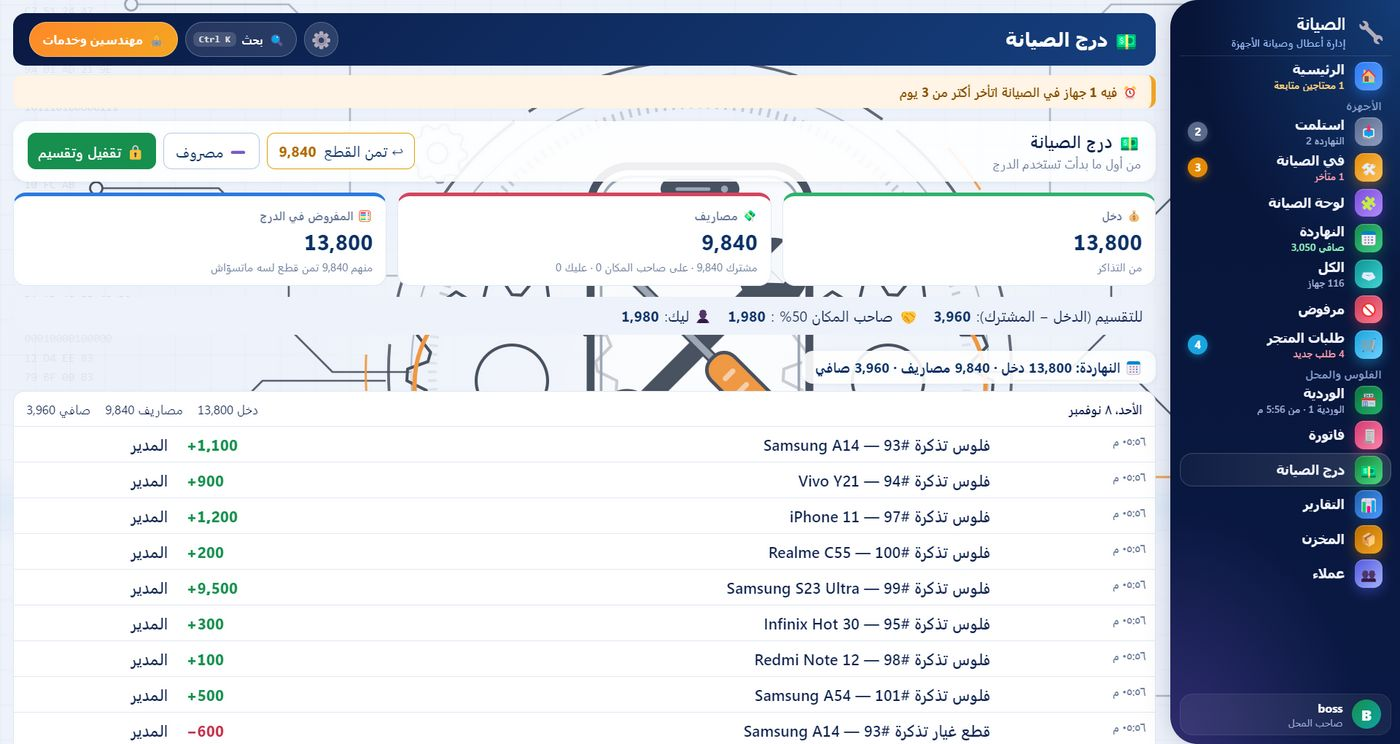
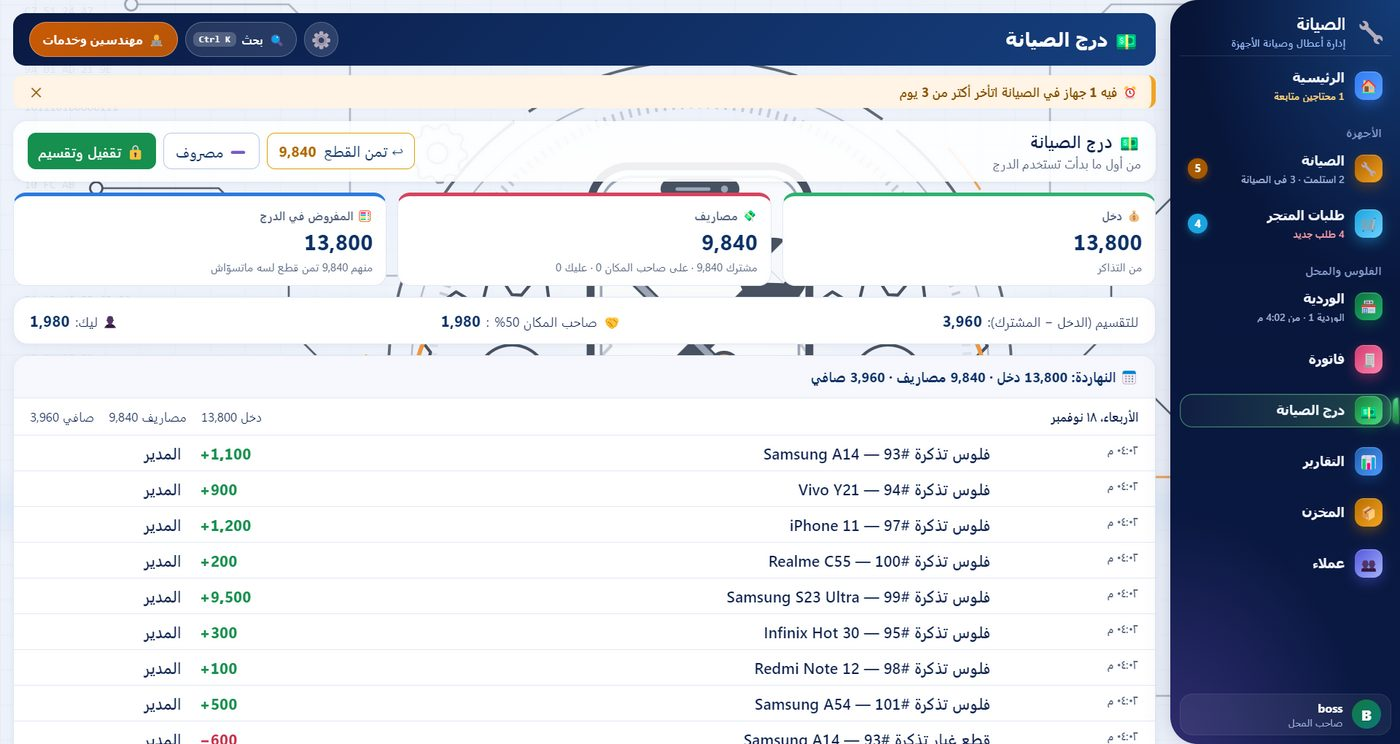
Site: employees & branches section, iPhone links, store reviews/account/branches, all screenshots retaken

diff --git a/index.html b/index.html
@@ -79,7 +79,7 @@
   .dlc i { font-style: normal; font-size: 40px; } .dlc b { font-size: 17px; } .dlc small { color: var(--mut, #5b6a88); font-size: 13px; }
   .dlc span { margin-top: 8px; padding: 9px 18px; border-radius: 12px; background: linear-gradient(135deg, #2b7be0, #1f5fae); color: #fff; font-weight: 800; }
   .cap2 { text-align: center; color: var(--mut, #5b6a88); font-size: 14px; margin-top: 10px; }
-  @media (max-width: 760px) { .dls { grid-template-columns: 1fr; } .navl { gap: 10px; } }
+  @media (max-width: 760px) { .dls { grid-template-columns: 1fr; } .navl { gap: 10px; } .navl .wide { display: none; } }
   .split { display: grid; grid-template-columns: 1fr 1.2fr; gap: 34px; align-items: center; }
   .phones { display: flex; gap: 14px; justify-content: center; }
   .phones img { width: 31%; border-radius: 22px; border: 6px solid #0a1a44; box-shadow: 0 18px 40px #0003; }
@@ -232,7 +232,7 @@
   <div class="wrap">
     <div class="nav">
       <div class="brand"><i>🔧</i>الصيانة</div>
-      <span class="navl"><a class="small" href="#store">🛒 المتجر</a><a class="small" href="#downloads">⬇ التحميلات</a><a class="small" href="#features">المميزات ↓</a></span>
+      <span class="navl"><a class="small" href="#store">🛒 المتجر</a><a class="small wide" href="#team">👷 الموظفين والفروع</a><a class="small" href="#downloads">⬇ التحميلات</a><a class="small" href="#features">المميزات ↓</a></span>
     </div>
     <div class="hero-in">
       <div>
@@ -242,32 +242,32 @@
           <a class="btn pri" href="https://github.com/khalid374374/repair-desk/releases/download/repair-desk/RepairDesk-Setup.exe">⬇ نزّل البرنامج</a>
           <a class="btn wa" href="https://wa.me/201032620498" target="_blank" rel="noopener">💬 كلّمنا واتساب</a>
         </div>
-        <small class="note up" style="--d:.36s">ويندوز 10 و 11 · عربي وإنجليزي · بيتحدّث لوحده</small>
+        <small class="note up" style="--d:.36s">ويندوز 10 و 11 · موبايل أندرويد وآيفون · عربي وإنجليزي · بيتحدّث لوحده</small>
       </div>
       <div class="shot-wrap"><div class="shot-float">
         <img class="shot-hero" src="img/home.jpg" alt="الصفحة الرئيسية في برنامج الصيانة" width="1400" height="744">
         <div class="sheen"></div>
         <div class="toast-fly t1" aria-hidden="true"><i>📲</i> تحويل 500 ج على فودافون كاش <b>✓ اتسجل</b></div>
         <div class="toast-fly t2" aria-hidden="true"><i>🔒</i> الوردية اتقفلت: <b>زيادة 120</b></div>
-        <div class="toast-fly t3" aria-hidden="true"><i>🛠</i> آيفون 13 خلص: <b>صافي 650</b></div>
+        <div class="toast-fly t3" aria-hidden="true"><i>👷</i> علي وصل المحل: <b>اتسجل حضوره 9:02</b></div>
       </div></div>
     </div>
   </div>
 </header>
 
 <div class="wrap"><div class="facts rv">
-  <div><b>52+</b><span>ميزة في برنامج واحد</span></div>
-  <div><b>2</b><span>تطبيق أندرويد + متجر لعملاك</span></div>
-  <div><b>0</b><span>سيرفر تركّبه في المحل</span></div>
+  <div><b>75+</b><span>ميزة في برنامج واحد</span></div>
+  <div><b>3</b><span>تطبيقات موبايل + متجر لعملاك</span></div>
+  <div><b>10</b><span>فروع تتابعهم من موبايل واحد</span></div>
   <div><b>100%</b><span>بالمصري وعربي/إنجليزي</span></div>
 </div></div>
 
 <section id="features">
   <div class="wrap">
     <h2 class="rv">كل حاجة في البرنامج</h2>
-    <p class="sub rv">52 ميزة، معمولين بإيد فني صيانة على حسابات محل حقيقي — بالمصري ومن غير تعقيد.</p>
-    <div class="fx-cats rv" id="fx-cats"><button type="button" data-cat="repair" class="on"><i>🛠</i>الصيانة <small>12</small></button><button type="button" data-cat="money" class=""><i>💵</i>الفلوس والوردية <small>10</small></button><button type="button" data-cat="stock" class=""><i>📦</i>المخزن والبيع <small>6</small></button><button type="button" data-cat="store" class=""><i>🛒</i>متجر أونلاين <small>6</small></button><button type="button" data-cat="mobile" class=""><i>📱</i>موبايلك <small>6</small></button><button type="button" data-cat="safe" class=""><i>🔐</i>الأمان والموظفين <small>6</small></button><button type="button" data-cat="look" class=""><i>✨</i>الشكل والسهولة <small>6</small></button></div>
-    <div class="fx-box rv"><div class="fx-pane on" data-pane="repair"><div class="fx-img"><img src="img/details.jpg" alt="الصيانة" loading="lazy" width="1400" height="744"></div><div class="fx-grid"><div class="fx"><span>📥</span><div><b>استلام كامل</b><p>الجهاز بالـ IMEI والقفل (رقم أو باسورد أو نمط)، استلمنا معاه إيه وحالته وصوره، والعربون والباقي والميعاد.</p></div></div><div class="fx"><span>🧩</span><div><b>أكتر من إصلاح</b><p>شاشة وبطارية وسوكت في تذكرة واحدة، كل بند بسعره وتمن قطعته، والتذكرة بتجمعهم لوحدها.</p></div></div><div class="fx"><span>🗂</span><div><b>لوحة الصيانة</b><p>أعمدة بالسحب (استلمت / في الصيانة / خلص / جاهز للتسليم)، وكلك يمين على الكارت فيه كل حاجة.</p></div></div><div class="fx"><span>📦</span><div><b>مستني قطعة</b><p>علّم الجهاز بالقطعة وميعادها، واسأل التجار من رقم المحل بدوسة، وقايمة مشتريات جاهزة.</p></div></div><div class="fx"><span>➕</span><div><b>حاجة زيادة</b><p>الفني يقترح إصلاح زيادة، والعميل يوافق على واتساب قبل ما السعر يتغيّر.</p></div></div><div class="fx"><span>💡</span><div><b>سعر مقترح</b><p>اختار جودة القطعة (اصلي، اوليد، GX...) والبرنامج يقولك اتصلّح قبل كده بكام.</p></div></div><div class="fx"><span>🛡</span><div><b>الضمان</b><p>الجهاز رجع؟ تذكرة ببلاش مربوطة بالقديمة بالسبب (القطعة / الفني / العميل) والتاجر.</p></div></div><div class="fx"><span>📲</span><div><b>العميل يتابع جهازه</b><p>QR على الإيصال: يشوف حالته من موبايله، ويوقّع على الإيصال بصباعه.</p></div></div><div class="fx"><span>💬</span><div><b>واتساب أوتوماتيك</b><p>رسالة لما يدخل الصيانة ولما يخلص، وتذكير للي ماستلمش جهازه.</p></div></div><div class="fx"><span>🧾</span><div><b>إيصال احترافي</b><p>باللوجو والعنوان والشروط وتوقيع العميل، وملصق صغير يتلزق على الجهاز.</p></div></div><div class="fx"><span>🔌</span><div><b>IMEI بالكابل</b><p>وصّل الموبايل واسحب الـ IMEI والمواصفات من غير ما تكتبها.</p></div></div><div class="fx"><span>🔗</span><div><b>جهاز الفني</b><p>كمبيوتر الصيانة يتربط بالكاشير على شبكة المحل ويشتغلوا على نفس البيانات.</p></div></div></div></div><div class="fx-pane" data-pane="money"><div class="fx-img"><img src="img/shift.jpg" alt="الفلوس والوردية" loading="lazy" width="1400" height="744"></div><div class="fx-grid"><div class="fx"><span>🏪</span><div><b>المفروض في الدرج</b><p>لحظة بلحظة: السحب والملاحظات والتحويلات والأجهزة والإكسسوار، والتقفيل بيقولك زيادة ولا عجز.</p></div></div><div class="fx"><span>🔁</span><div><b>المحافظ والخطوط</b><p>فودافون كاش وانستاباي بعمولة (نسبة أو شرايح)، والحد الشهري لكل خط.</p></div></div><div class="fx"><span>💳</span><div><b>الكارت وفوري</b><p>سحب من الكارت، كاش اوت، المندوب والرصيد اللي عليك، وفوري وأمان.</p></div></div><div class="fx"><span>👤</span><div><b>كارت لكل عميل</b><p>اللي عليه واللي ليه، الملاحظات والأمانة، بالشهر ومن الأول.</p></div></div><div class="fx"><span>🤝</span><div><b>تسليم الوردية</b><p>لو اتنين شغالين: كل واحد يسلّم ويستلم بالعد، والعجز معروف مين.</p></div></div><div class="fx"><span>📅</span><div><b>تقفيلة الشهر</b><p>المكسب الحقيقي ورأس المال: نقدي + أرصدة + اللي على الناس + المخزن.</p></div></div><div class="fx"><span>🧰</span><div><b>درج الصيانة والشريك</b><p>دخل الصيانة وقطعها ومصاريفها، والصافي بيتقسم مع الفني الشريك بالنسبة.</p></div></div><div class="fx"><span>🧾</span><div><b>دفع الفواتير</b><p>نت وكهربا ومية وشحن من مكنة فوري بالعمولة، وبتتحسب في الدرج صح.</p></div></div><div class="fx"><span>🗓</span><div><b>مدفوعات ثابتة</b><p>الجمعية والإيجار في ميعادها: "دفعت النهارده؟" وبتتسجل بدوسة.</p></div></div><div class="fx"><span>📊</span><div><b>التقارير</b><p>الصيانة لوحدها والإكسسوار لوحده، الفنيين وأكتر الأجهزة ومتوسط وقت التصليح، وطباعة PDF.</p></div></div></div></div><div class="fx-pane" data-pane="stock"><div class="fx-img"><img src="img/stock.jpg" alt="المخزن والبيع" loading="lazy" width="1400" height="744"></div><div class="fx-grid"><div class="fx"><span>📦</span><div><b>المخزن</b><p>قطع الغيار والإكسسوار بأنواعهم، والتنبيه قبل ما الصنف يخلص.</p></div></div><div class="fx"><span>🏷</span><div><b>الباركود</b><p>استيكر لكل صنف، والقارئ بيضيفه في الفاتورة على طول.</p></div></div><div class="fx"><span>🧾</span><div><b>الفاتورة</b><p>خصم ومرتجع بسبب و"على الحساب"، على رول 80 أو 58 مم أو A4.</p></div></div><div class="fx"><span>📱</span><div><b>بيع وشراء أجهزة</b><p>الجهاز بالـ IMEI والمواصفات والبطارية والصور، وبيعه مع الإكسسوار في إيصال واحد.</p></div></div><div class="fx"><span>📋</span><div><b>الجرد</b><p>كامل أو سريع لـ 10 أصناف، من الكمبيوتر أو الموبايل بالكاميرا، والناقص بقيمته.</p></div></div><div class="fx"><span>📈</span><div><b>Excel</b><p>تصدير شكل داشبورد: أرقام وجداول وفلاتر وصفحات حسب الفني والماركة.</p></div></div></div></div><div class="fx-pane" data-pane="store"><div class="phones fx-ph"><img src="img/s-home.jpg" alt="" loading="lazy"><img src="img/s-checkout.jpg" alt="" loading="lazy"><img src="img/s-track.jpg" alt="" loading="lazy"></div><div class="fx-grid"><div class="fx"><span>🔗</span><div><b>لينك وQR لمحلك</b><p>العميل يفتحه من موبايله ويطلب من غير حساب، ويتثبّت كتطبيق باسم محلك ولوجوه.</p></div></div><div class="fx"><span>🏷</span><div><b>منتجات وعروض</b><p>من المخزن نفسه: صور وموديلات وضمان وتبديل، وخصم بعدّاد وكوبونات و"ضيف معاه".</p></div></div><div class="fx"><span>📍</span><div><b>التوصيل بالمناطق</b><p>العميل يحدد مكانه على الخريطة، والتوصيل ببلاش لحد كذا كيلو وبعدها رسوم.</p></div></div><div class="fx"><span>⚡</span><div><b>الدفع</b><p>كاش عند الاستلام أو انستا، والفيزا جاهزة أول ما يبقى عندك حساب Paymob.</p></div></div><div class="fx"><span>🛵</span><div><b>الطلبات والمناديب</b><p>جديد ← بيتجهز ← مع المندوب ← اتحصّل، والفاتورة والفلوس اللي مع المندوب في الوردية لوحدها.</p></div></div><div class="fx"><span>🤔</span><div><b>الناس عايزة إيه</b><p>"مش لاقي اللي عايزه؟" والطلبات بتتجمع علشان تعرف تجيب إيه.</p></div></div></div></div><div class="fx-pane" data-pane="mobile"><div class="phones fx-ph"><img src="img/m-home.jpg" alt="" loading="lazy"><img src="img/m-invoice.jpg" alt="" loading="lazy"><img src="img/m-watch.jpg" alt="" loading="lazy"></div><div class="fx-grid"><div class="fx"><span>📊</span><div><b>المحل على موبايلك</b><p>الدرج ودخل الوردية والصيانة والتقارير لحظة بلحظة.</p></div></div><div class="fx"><span>🧾</span><div><b>فاتورة ومخزن وجرد</b><p>زي الكمبيوتر، والكاميرا قارئ باركود.</p></div></div><div class="fx"><span>🛒</span><div><b>طلبات المتجر</b><p>أكّد وسلّم للمندوب وسجّل اللي اتحصّل من مكانك.</p></div></div><div class="fx"><span>🙋</span><div><b>موافقات الموظفين</b><p>سحب أو مرتجع أو مسح: وافق أو ارفض من الإشعار.</p></div></div><div class="fx"><span>📲</span><div><b>مراقب المحافظ</b><p>تطبيق على تليفون المحافظ بيقرا رسايل الفلوس وينبّهك لو تحويل ماتسجلش أو الرصيد مش مظبوط.</p></div></div><div class="fx"><span>🔒</span><div><b>بصمة وإشعارات</b><p>قفل بالبصمة، وإشعار لكل حاجة مهمة وتختار تقفل اللي مش عايزه.</p></div></div></div></div><div class="fx-pane" data-pane="safe"><div class="fx-grid"><div class="fx"><span>👷</span><div><b>موظفين بالـ PIN</b><p>كل واحد بحسابه وصلاحياته: مين يشوف الأرباح ومين يمسح ومين يسحب.</p></div></div><div class="fx"><span>🧾</span><div><b>سجل محمي</b><p>كل عملية باسم اللي عملها، ومحمي من التلاعب، وسلة للمحذوفات.</p></div></div><div class="fx"><span>✋</span><div><b>طلبات موافقة</b><p>السحب الكبير والمرتجع والمسح بيستنوا موافقتك (اختياري).</p></div></div><div class="fx"><span>💾</span><div><b>نسخ احتياطي</b><p>نسخة على الجهاز لوحدها وعلى Google Drive، واسترجاع بدوسة.</p></div></div><div class="fx"><span>🩺</span><div><b>فحص البيانات</b><p>البرنامج بيتأكد كل مرة إن مفيش ملف باظ أو وردية ناقصة أو ساعة الكمبيوتر غلط.</p></div></div><div class="fx"><span>🔄</span><div><b>بيتحدّث لوحده</b><p>كل تحديث بيوصلك، و"إيه الجديد" بيقولك اتغيّر إيه.</p></div></div></div></div><div class="fx-pane" data-pane="look"><div class="fx-img"><img src="img/glass-dark.jpg" alt="الشكل والسهولة" loading="lazy" width="1400" height="744"></div><div class="fx-grid"><div class="fx"><span>🎨</span><div><b>شكلك انت</b><p>7 ألوان، فاتح وغامق وأسود، وLiquid Glass، وخلفية من عندك.</p></div></div><div class="fx"><span>⌨</span><div><b>Ctrl+K</b><p>دوّر على أي جهاز بالإيصال أو التليفون أو الـ IMEI، أو اكتب أمر زي "سحب".</p></div></div><div class="fx"><span>🧭</span><div><b>جولة ووضع تجربة</b><p>جولة بفصول بتشرح كل حاجة، ومحل وهمي تجرّب فيه من غير ما تلمس بياناتك.</p></div></div><div class="fx"><span>📋</span><div><b>النهارده</b><p>أول الرئيسية: المتأخر والقطع اللي ميعادها جه واللي جاهز ومحدش استلمه، وجنب كل واحد زرار.</p></div></div><div class="fx"><span>🌍</span><div><b>عربي وإنجليزي</b><p>بالمصري، والإنجليزي بدوسة.</p></div></div><div class="fx"><span>↩</span><div><b>رجوع</b><p>لو حد داس على حاجة بالغلط في طلبات المتجر، "رجوع" بيرجّعها زي ما كانت.</p></div></div></div></div></div>
+    <p class="sub rv">75+ ميزة، معمولين بإيد فني صيانة على حسابات محل حقيقي — بالمصري ومن غير تعقيد.</p>
+    <div class="fx-cats rv" id="fx-cats"><button type="button" data-cat="repair" class="on"><i>🛠</i>الصيانة <small>12</small></button><button type="button" data-cat="money" class=""><i>💵</i>الفلوس والوردية <small>10</small></button><button type="button" data-cat="stock" class=""><i>📦</i>المخزن والبيع <small>6</small></button><button type="button" data-cat="store" class=""><i>🛒</i>متجر أونلاين <small>11</small></button><button type="button" data-cat="team" class=""><i>👷</i>الموظفين والفروع <small>8</small></button><button type="button" data-cat="mobile" class=""><i>📱</i>موبايلك <small>9</small></button><button type="button" data-cat="safe" class=""><i>🔐</i>الأمان والموظفين <small>6</small></button><button type="button" data-cat="look" class=""><i>✨</i>الشكل والسهولة <small>7</small></button></div>
+    <div class="fx-box rv"><div class="fx-pane on" data-pane="repair"><div class="fx-img"><img src="img/details.jpg" alt="الصيانة" loading="lazy" width="1400" height="744"></div><div class="fx-grid"><div class="fx"><span>📥</span><div><b>استلام كامل</b><p>الجهاز بالـ IMEI والقفل (رقم أو باسورد أو نمط)، استلمنا معاه إيه وحالته وصوره، والعربون والباقي والميعاد.</p></div></div><div class="fx"><span>🧩</span><div><b>أكتر من إصلاح</b><p>شاشة وبطارية وسوكت في تذكرة واحدة، كل بند بسعره وتمن قطعته، والتذكرة بتجمعهم لوحدها.</p></div></div><div class="fx"><span>🗂</span><div><b>لوحة الصيانة</b><p>أعمدة بالسحب (استلمت / في الصيانة / خلص / جاهز للتسليم)، وكلك يمين على الكارت فيه كل حاجة.</p></div></div><div class="fx"><span>📦</span><div><b>مستني قطعة</b><p>علّم الجهاز بالقطعة وميعادها، واسأل التجار من رقم المحل بدوسة، وقايمة مشتريات جاهزة.</p></div></div><div class="fx"><span>➕</span><div><b>حاجة زيادة</b><p>الفني يقترح إصلاح زيادة، والعميل يوافق على واتساب قبل ما السعر يتغيّر.</p></div></div><div class="fx"><span>💡</span><div><b>سعر مقترح</b><p>اختار جودة القطعة (اصلي، اوليد، GX...) والبرنامج يقولك اتصلّح قبل كده بكام.</p></div></div><div class="fx"><span>🛡</span><div><b>الضمان</b><p>الجهاز رجع؟ تذكرة ببلاش مربوطة بالقديمة بالسبب (القطعة / الفني / العميل) والتاجر.</p></div></div><div class="fx"><span>📲</span><div><b>العميل يتابع جهازه</b><p>QR على الإيصال: يشوف حالته من موبايله، ويوقّع على الإيصال بصباعه.</p></div></div><div class="fx"><span>💬</span><div><b>واتساب أوتوماتيك</b><p>رسالة لما يدخل الصيانة ولما يخلص، وتذكير للي ماستلمش جهازه.</p></div></div><div class="fx"><span>🧾</span><div><b>إيصال احترافي</b><p>باللوجو والعنوان والشروط وتوقيع العميل، وملصق صغير يتلزق على الجهاز.</p></div></div><div class="fx"><span>🔌</span><div><b>IMEI بالكابل</b><p>وصّل الموبايل واسحب الـ IMEI والمواصفات من غير ما تكتبها.</p></div></div><div class="fx"><span>🔗</span><div><b>جهاز الفني</b><p>كمبيوتر الصيانة يتربط بالكاشير على شبكة المحل ويشتغلوا على نفس البيانات.</p></div></div></div></div><div class="fx-pane" data-pane="money"><div class="fx-img"><img src="img/shift.jpg" alt="الفلوس والوردية" loading="lazy" width="1400" height="744"></div><div class="fx-grid"><div class="fx"><span>🏪</span><div><b>المفروض في الدرج</b><p>لحظة بلحظة: السحب والملاحظات والتحويلات والأجهزة والإكسسوار، والتقفيل بيقولك زيادة ولا عجز.</p></div></div><div class="fx"><span>🔁</span><div><b>المحافظ والخطوط</b><p>فودافون كاش وانستاباي بعمولة (نسبة أو شرايح)، والحد الشهري لكل خط.</p></div></div><div class="fx"><span>💳</span><div><b>الكارت وفوري</b><p>سحب من الكارت، كاش اوت، المندوب والرصيد اللي عليك، وفوري وأمان.</p></div></div><div class="fx"><span>👤</span><div><b>كارت لكل عميل</b><p>اللي عليه واللي ليه، الملاحظات والأمانة، بالشهر ومن الأول.</p></div></div><div class="fx"><span>🤝</span><div><b>تسليم الوردية</b><p>لو اتنين شغالين: كل واحد يسلّم ويستلم بالعد، والعجز معروف مين.</p></div></div><div class="fx"><span>📅</span><div><b>تقفيلة الشهر</b><p>المكسب الحقيقي ورأس المال: نقدي + أرصدة + اللي على الناس + المخزن.</p></div></div><div class="fx"><span>🧰</span><div><b>درج الصيانة والشريك</b><p>دخل الصيانة وقطعها ومصاريفها، والصافي بيتقسم مع الفني الشريك بالنسبة.</p></div></div><div class="fx"><span>🧾</span><div><b>دفع الفواتير</b><p>نت وكهربا ومية وشحن من مكنة فوري بالعمولة، وبتتحسب في الدرج صح.</p></div></div><div class="fx"><span>🗓</span><div><b>مدفوعات ثابتة</b><p>الجمعية والإيجار في ميعادها: "دفعت النهارده؟" وبتتسجل بدوسة.</p></div></div><div class="fx"><span>📊</span><div><b>التقارير</b><p>الصيانة لوحدها والإكسسوار لوحده، الفنيين وأكتر الأجهزة ومتوسط وقت التصليح، وطباعة PDF.</p></div></div></div></div><div class="fx-pane" data-pane="stock"><div class="fx-img"><img src="img/stock.jpg" alt="المخزن والبيع" loading="lazy" width="1400" height="744"></div><div class="fx-grid"><div class="fx"><span>📦</span><div><b>المخزن</b><p>قطع الغيار والإكسسوار بأنواعهم، والتنبيه قبل ما الصنف يخلص.</p></div></div><div class="fx"><span>🏷</span><div><b>الباركود</b><p>استيكر لكل صنف، والقارئ بيضيفه في الفاتورة على طول.</p></div></div><div class="fx"><span>🧾</span><div><b>الفاتورة</b><p>خصم ومرتجع بسبب و"على الحساب"، على رول 80 أو 58 مم أو A4.</p></div></div><div class="fx"><span>📱</span><div><b>بيع وشراء أجهزة</b><p>الجهاز بالـ IMEI والمواصفات والبطارية والصور، وبيعه مع الإكسسوار في إيصال واحد.</p></div></div><div class="fx"><span>📋</span><div><b>الجرد</b><p>كامل أو سريع لـ 10 أصناف، من الكمبيوتر أو الموبايل بالكاميرا، والناقص بقيمته.</p></div></div><div class="fx"><span>📈</span><div><b>Excel</b><p>تصدير شكل داشبورد: أرقام وجداول وفلاتر وصفحات حسب الفني والماركة.</p></div></div></div></div><div class="fx-pane" data-pane="store"><div class="phones fx-ph"><img src="img/s-home.jpg" alt="" loading="lazy"><img src="img/s-product.jpg" alt="" loading="lazy"><img src="img/s-branch.jpg" alt="" loading="lazy"></div><div class="fx-grid"><div class="fx"><span>🔗</span><div><b>لينك وQR لمحلك</b><p>العميل يفتحه من موبايله ويطلب من غير حساب، ويتثبّت كتطبيق باسم محلك ولوجوه.</p></div></div><div class="fx"><span>🏷</span><div><b>منتجات وعروض</b><p>من المخزن نفسه: صور وموديلات وضمان وتبديل، وخصم بعدّاد وكوبونات و"ضيف معاه".</p></div></div><div class="fx"><span>📍</span><div><b>التوصيل بالمناطق</b><p>العميل يحدد مكانه على الخريطة، والتوصيل ببلاش لحد كذا كيلو وبعدها رسوم.</p></div></div><div class="fx"><span>⚡</span><div><b>الدفع</b><p>كاش عند الاستلام أو انستا، والفيزا جاهزة أول ما يبقى عندك حساب Paymob.</p></div></div><div class="fx"><span>🛵</span><div><b>الطلبات والمناديب</b><p>جديد ← بيتجهز ← مع المندوب ← اتحصّل، والفاتورة والفلوس اللي مع المندوب في الوردية لوحدها.</p></div></div><div class="fx"><span>🤔</span><div><b>الناس عايزة إيه</b><p>"مش لاقي اللي عايزه؟" والطلبات بتتجمع علشان تعرف تجيب إيه.</p></div></div><div class="fx"><span>⭐</span><div><b>تقييم العملا</b><p>اللي اشترى بس يقيّم المنتج بالنجوم بعد ما يستلم، وانت ترد أو تخبّي، والمتوسط بيبان على المنتج.</p></div></div><div class="fx"><span>👤</span><div><b>حساب للعميل</b><p>اختياري بكود واتساب: طلباته وعناوينه والمفضلة، ويطلب بدوسة من غير ما يكتب بياناته تاني.</p></div></div><div class="fx"><span>✅</span><div><b>رقم متأكد</b><p>العميل يأكد رقمه برسالة واتساب لمحلك، فتعرف الطلب الحقيقي قبل ما المندوب يتحرك.</p></div></div><div class="fx"><span>🏬</span><div><b>متجر واحد لكل الفروع</b><p>العميل يختار أقرب فرع من فوق، وكل فرع بمنتجاته وأسعاره وطلباته، والطلب اللي راح فرع غلط يتحوّل بدوسة.</p></div></div><div class="fx"><span>🖼</span><div><b>صفحة منتج احترافية</b><p>صور كاملة بالسحب والتكبير، العرض بعدّاده، والكمية الفاضلة، والضمان والتوصيل في نظرة.</p></div></div></div></div><div class="fx-pane" data-pane="team"><div class="fx-img"><img src="img/att.jpg" alt="الموظفين والفروع" loading="lazy" width="1400" height="816"></div><div class="fx-grid"><div class="fx"><span>📶</span><div><b>حضور أوتوماتيك</b><p>موبايل الموظف بيسجّل حضوره لوحده أول ما يلقط واي فاي المحل في ميعاد ورديته، بوقت السيرفر مش وقت الموبايل.</p></div></div><div class="fx"><span>🎯</span><div><b>نقط الحضور</b><p>التأخير والغياب والإجازات بالنقط، وطلب إجازة من الموبايل والصاحب يوافق.</p></div></div><div class="fx"><span>👷</span><div><b>رواتب الموظفين</b><p>المرتب والحوافز والخصومات والسلف بالشهر، والعجز بيتقترح من التقفيل وانت تأكده.</p></div></div><div class="fx"><span>🛵</span><div><b>تطبيق المندوب</b><p>طلبات المتجر اللي معاه، الطريق والاتصال، وسلّمت الفلوس، في نفس تطبيق الموظف.</p></div></div><div class="fx"><span>🏬</span><div><b>فروع لحد 10</b><p>كل فرع بالكاشير بتاعه، وانت شايف الكل من موبايل واحد.</p></div></div><div class="fx"><span>📦</span><div><b>مخزن الفروع</b><p>كل فرع يشوف الكمية وسعر البيع في الفروع التانية (قراية بس) علشان يبعت العميل للفرع اللي عنده.</p></div></div><div class="fx"><span>🔁</span><div><b>تحويل الطلبات</b><p>طلب جه لفرع غلط؟ يتحوّل للفرع الصح بأسعاره وتوصيله، والعميل يكمّل بنفس اللينك.</p></div></div><div class="fx"><span>🔐</span><div><b>كل واحد على قده</b><p>الموظف يشوف حضوره بس، والمندوب طلباته بس، وأرقام المحل ليك انت.</p></div></div></div></div><div class="fx-pane" data-pane="mobile"><div class="phones fx-ph"><img src="img/m-full.jpg" alt="" loading="lazy"><img src="img/m-branches.jpg" alt="" loading="lazy"><img src="img/m-watch.jpg" alt="" loading="lazy"></div><div class="fx-grid"><div class="fx"><span>📊</span><div><b>المحل على موبايلك</b><p>الدرج ودخل الوردية والصيانة والتقارير لحظة بلحظة.</p></div></div><div class="fx"><span>🧾</span><div><b>فاتورة ومخزن وجرد</b><p>زي الكمبيوتر، والكاميرا قارئ باركود.</p></div></div><div class="fx"><span>🛒</span><div><b>طلبات المتجر</b><p>أكّد وسلّم للمندوب وسجّل اللي اتحصّل من مكانك.</p></div></div><div class="fx"><span>🙋</span><div><b>موافقات الموظفين</b><p>سحب أو مرتجع أو مسح: وافق أو ارفض من الإشعار.</p></div></div><div class="fx"><span>📲</span><div><b>مراقب المحافظ</b><p>تطبيق على تليفون المحافظ بيقرا رسايل الفلوس وينبّهك لو تحويل ماتسجلش أو الرصيد مش مظبوط.</p></div></div><div class="fx"><span>🔒</span><div><b>بصمة وإشعارات</b><p>قفل بالبصمة، وإشعار لكل حاجة مهمة وتختار تقفل اللي مش عايزه.</p></div></div><div class="fx"><span>🗂</span><div><b>الكاشير كله على موبايلك</b><p>الورديات والشهر والناس والرواتب والتقارير كاملة، متشفّرة من الكاشير لموبايلك وبتفتح من غير نت.</p></div></div><div class="fx"><span>🏬</span><div><b>كل الفروع</b><p>اربط كل فرع مرة، واتنقّل بينهم بدوسة، و"كل الفروع" بيجمعلك الدرج والدخل.</p></div></div><div class="fx"><span>🍏</span><div><b>آيفون كمان</b><p>من Safari من غير تحميل: بيتضاف للشاشة الرئيسية، Face ID أو PIN، وإشعارات (iOS 16.4 أو أحدث).</p></div></div></div></div><div class="fx-pane" data-pane="safe"><div class="fx-grid"><div class="fx"><span>👷</span><div><b>موظفين بالـ PIN</b><p>كل واحد بحسابه وصلاحياته: مين يشوف الأرباح ومين يمسح ومين يسحب.</p></div></div><div class="fx"><span>🧾</span><div><b>سجل محمي</b><p>كل عملية باسم اللي عملها، ومحمي من التلاعب، وسلة للمحذوفات.</p></div></div><div class="fx"><span>✋</span><div><b>طلبات موافقة</b><p>السحب الكبير والمرتجع والمسح بيستنوا موافقتك (اختياري).</p></div></div><div class="fx"><span>💾</span><div><b>نسخ احتياطي</b><p>نسخة على الجهاز لوحدها وعلى Google Drive، واسترجاع بدوسة.</p></div></div><div class="fx"><span>🩺</span><div><b>فحص البيانات</b><p>البرنامج بيتأكد كل مرة إن مفيش ملف باظ أو وردية ناقصة أو ساعة الكمبيوتر غلط.</p></div></div><div class="fx"><span>🔄</span><div><b>بيتحدّث لوحده</b><p>كل تحديث بيوصلك، و"إيه الجديد" بيقولك اتغيّر إيه.</p></div></div></div></div><div class="fx-pane" data-pane="look"><div class="fx-img"><img src="img/glass-dark.jpg" alt="الشكل والسهولة" loading="lazy" width="1400" height="744"></div><div class="fx-grid"><div class="fx"><span>🎨</span><div><b>شكلك انت</b><p>7 ألوان، فاتح وغامق وأسود، وLiquid Glass، وخلفية من عندك.</p></div></div><div class="fx"><span>⌨</span><div><b>Ctrl+K</b><p>دوّر على أي جهاز بالإيصال أو التليفون أو الـ IMEI، أو اكتب أمر زي "سحب".</p></div></div><div class="fx"><span>🧭</span><div><b>جولة ووضع تجربة</b><p>جولة بفصول بتشرح كل حاجة، ومحل وهمي تجرّب فيه من غير ما تلمس بياناتك.</p></div></div><div class="fx"><span>📋</span><div><b>النهارده</b><p>أول الرئيسية: المتأخر والقطع اللي ميعادها جه واللي جاهز ومحدش استلمه، وجنب كل واحد زرار.</p></div></div><div class="fx"><span>🌍</span><div><b>عربي وإنجليزي</b><p>بالمصري، والإنجليزي بدوسة.</p></div></div><div class="fx"><span>↩</span><div><b>رجوع</b><p>لو حد داس على حاجة بالغلط في طلبات المتجر، "رجوع" بيرجّعها زي ما كانت.</p></div></div><div class="fx"><span>🔊</span><div><b>أصوات</b><p>صوت هادي للحفظ والغلط وطلب المتجر وطلب الموظف والتحويل اللي ماتسجلش، وتقفل اللي مش عايزه.</p></div></div></div></div></div>
   </div>
 </section>
 
@@ -276,7 +276,7 @@
     <h2 class="rv">شوف البرنامج</h2>
     <p class="sub rv">صور حقيقية من البرنامج (ببيانات تجريبية).</p>
     <div class="tabs" id="tabs">
-      <button class="on" data-i="home">الرئيسية</button><button data-i="board">لوحة الصيانة</button><button data-i="repair">في الصيانة</button><button data-i="details">بيانات الجهاز</button><button data-i="archive">الكل</button><button data-i="items">أكتر من إصلاح</button><button data-i="shift">الوردية</button><button data-i="drawer">درج الصيانة</button><button data-i="invoice">الفاتورة</button><button data-i="stock">المخزن</button><button data-i="reports">التقارير</button><button data-i="s-orders">طلبات المتجر</button><button data-i="cmdk">Ctrl+K</button><button data-i="glass-dark">غامق وزجاج</button>
+      <button class="on" data-i="home">الرئيسية</button><button data-i="board">لوحة الصيانة</button><button data-i="repair">في الصيانة</button><button data-i="details">بيانات الجهاز</button><button data-i="archive">الكل</button><button data-i="items">أكتر من إصلاح</button><button data-i="shift">الوردية</button><button data-i="drawer">درج الصيانة</button><button data-i="invoice">الفاتورة</button><button data-i="stock">المخزن</button><button data-i="reports">التقارير</button><button data-i="s-orders">طلبات المتجر</button><button data-i="att">الحضور</button><button data-i="payroll">الرواتب</button><button data-i="branches">الفروع</button><button data-i="cmdk">Ctrl+K</button><button data-i="glass-dark">غامق وزجاج</button>
     </div>
     <div class="stage rv"><div class="bar" id="bar"></div><img id="shot" src="img/home.jpg" alt="" width="1400" height="744"><p id="cap">الرئيسية: صافي النهاردة والشهر، الأجهزة المتأخرة، ومواعيد التسليم.</p></div>
   </div>
@@ -285,31 +285,51 @@
 <section>
   <div class="wrap split">
     <div class="phones rv">
-      <img src="img/m-invoice.jpg" alt="فاتورة من الموبايل" loading="lazy">
+      <img src="img/m-full.jpg" alt="الوردية كاملة على الموبايل" loading="lazy">
       <img src="img/m-home.jpg" alt="الرئيسية في تطبيق الموبايل" loading="lazy">
-      <img src="img/m-reports.jpg" alt="التقارير على الموبايل: الصيانة والإكسسوار" loading="lazy">
+      <img src="img/m-branches.jpg" alt="كل الفروع على الموبايل" loading="lazy">
     </div>
     <div>
       <h2 class="rv" style="text-align:start">المحل على موبايلك</h2>
-      <p class="sub" style="text-align:start;margin-inline:0">تطبيق أندرويد لصاحب المحل، بيتربط بالكاشير بـ QR مرة واحدة.</p>
+      <p class="sub" style="text-align:start;margin-inline:0">تطبيق لصاحب المحل على أندرويد وآيفون، بيتربط بالكاشير بـ QR مرة واحدة.</p>
       <ul class="ticks rv" style="--d:.1s">
         <li><b>لحظي:</b> الدرج ودخل الوردية المفتوحة (صيانة + إكسسوار + عمولات) والأجهزة، أول ما حاجة تتغيّر.</li>
         <li><b>فاتورة ومخزن وجرد</b> من الموبايل زي الكمبيوتر، والكاميرا قارئ باركود.</li>
+        <li><b>الكاشير كله:</b> الورديات والشهر والناس والرواتب والتقارير كاملة، متشفّرة وبتفتح من غير نت.</li>
+        <li><b>كل الفروع:</b> اتنقّل بينهم بدوسة، و"كل الفروع" بيجمعلك الأرقام.</li>
         <li><b>تقارير واضحة:</b> الصيانة لوحدها والإكسسوار لوحده، والمكسب الحقيقي للشهر.</li>
         <li><b>تحويل ماتسجلش؟</b> إشعار بصوت، وتسجّله أو تتجاهله من مكانك.</li>
         <li><b>توافق أو ترفض</b> طلبات الموظفين (سحب، مرتجع، مسح) من مكانك.</li>
-        <li><b>طلبات المتجر:</b> أكّد وسلّم للمندوب وسجّل اللي اتحصّل من موبايلك.</li>
+        <li><b>المتجر من موبايلك:</b> الطلبات، والمنتجات بأسعارها وصورها وعروضها، وآراء العملا والرد عليها.</li>
         <li><b>استلام جهاز</b> أو نقله من الموبايل، والكاشير بيسجّله.</li>
-        <li><b>قفل بالبصمة</b>، ونفس شكل البرنامج على الكمبيوتر.</li>
+        <li><b>قفل بالبصمة أو Face ID</b>، ونفس شكل البرنامج على الكمبيوتر.</li>
       </ul>
-      <a class="btn dl rv" style="--d:.2s" href="https://github.com/khalid374374/repair-desk/releases/download/repair-desk/RepairDesk-Owner.apk">⬇ نزّل تطبيق صاحب المحل</a>
+      <div class="btns rv" style="--d:.2s;justify-content:flex-start"><a class="btn dl" href="https://github.com/khalid374374/repair-desk/releases/download/repair-desk/RepairDesk-Owner.apk">⬇ صاحب المحل · أندرويد</a><a class="btn dl" href="https://khalid374374.github.io/repair-desk/app/" target="_blank" rel="noopener">🍏 آيفون</a></div>
     </div>
   </div>
 </section>
 
-
-<section class="band" id="store">
+<section class="band" id="team">
   <div class="wrap split rev">
+    <div>
+      <h2 class="rv" style="text-align:start">👷 الموظفين والفروع</h2>
+      <p class="sub rv" style="text-align:start;margin-inline:0">تطبيق "الموظف" على موبايل كل موظف ومندوب، والفروع كلها في جيبك.</p>
+      <ul class="ticks rv" style="--d:.1s">
+        <li><b>الحضور لوحده:</b> أول ما موبايل الموظف يلقط واي فاي المحل في ميعاد ورديته بيتسجّل، بوقت السيرفر، ومحدش يسجّل من البيت.</li>
+        <li><b>زرار "وصلت"</b> احتياطي بالواي فاي والموقع، والمشكوك فيه بيتعلّم ⚠ قدامك.</li>
+        <li><b>النقط والرواتب:</b> التأخير والغياب والإجازات بالنقط، والمرتب والحوافز والخصومات بالشهر.</li>
+        <li><b>المندوب</b> بيشوف طلبات المتجر اللي معاه ويسلّم الفلوس من نفس التطبيق، والموظف بيشوف حضوره بس.</li>
+        <li><b>فروع لحد 10:</b> كل فرع بالكاشير بتاعه، ومخزن كل فرع قدام التاني، ومتجر واحد العميل يختار فيه الفرع.</li>
+      </ul>
+      <div class="btns rv" style="--d:.2s;justify-content:flex-start"><a class="btn dl" href="https://github.com/khalid374374/repair-desk/releases/download/repair-desk/RepairDesk-Courier.apk">⬇ تطبيق الموظف · أندرويد</a><a class="btn dl" href="https://khalid374374.github.io/repair-desk/staff/" target="_blank" rel="noopener">🍏 آيفون</a></div>
+    </div>
+    <div class="phones rv"><img src="img/e-att.jpg" alt="تطبيق الموظف: الحضور" loading="lazy" width="493" height="1020"><img src="img/m-branches.jpg" alt="كل الفروع على موبايل الصاحب" loading="lazy" width="493" height="1020"><img src="img/e-orders.jpg" alt="تطبيق الموظف: طلبات المندوب" loading="lazy" width="493" height="1020"></div>
+  </div>
+  <div class="wrap"><div class="stage rv" style="margin-top:26px"><img src="img/att.jpg" alt="الحضور على الكاشير" loading="lazy" width="1400" height="816"><p class="cap2">الحضور على الكاشير: مين وصل وإمتى ومنين، والمتأخر والغايب وطلبات الإجازة.</p></div></div>
+</section>
+
+<section id="store">
+  <div class="wrap split">
     <div>
       <h2 class="rv" style="text-align:start">🛒 متجر أونلاين باسم محلك</h2>
       <p class="sub rv" style="text-align:start;margin-inline:0">لينك وQR لمحلك، العميل يفتحه من موبايله ويطلب — من غير حساب ومن غير برنامج تاني. بتتحكم في كل حاجة من الكاشير.</p>
@@ -321,9 +341,11 @@
         <li><b>خدمات:</b> ادفع فاتورتك (نت، كهربا، مية...) بالعمولة، صيانة من البيت أو استشارة، و"مش لاقي اللي عايزه؟" علشان تعرف الناس عايزة إيه.</li>
         <li><b>الطلبات على الكاشير:</b> جديد ← بيتجهز ← مع المندوب ← اتحصّل، والفاتورة والمخزن والفلوس اللي مع المندوب بتتسجل في الوردية لوحدها، وزرار رجوع لو حد داس غلط.</li>
         <li><b>يتثبّت كتطبيق</b> على موبايل العميل باسم محلك ولوجوه، والعميل يتابع طلبه لحظة بلحظة.</li>
+        <li><b>تقييم وحساب:</b> اللي اشترى بس يقيّم بالنجوم وانت ترد، وحساب اختياري بكود واتساب فيه طلباته وعناوينه والمفضلة.</li>
+        <li><b>كل الفروع في متجر واحد:</b> العميل يختار أقرب فرع، والطلب اللي راح فرع غلط يتحوّل بدوسة.</li>
       </ul>
     </div>
-    <div class="phones rv"><img src="img/s-home.jpg" alt="المتجر: الرئيسية" loading="lazy" width="490" height="1020"><img src="img/s-checkout.jpg" alt="المتجر: إتمام الطلب وتحديد المكان" loading="lazy" width="490" height="1020"><img src="img/s-track.jpg" alt="المتجر: تتبّع الطلب" loading="lazy" width="490" height="1020"></div>
+    <div class="phones rv"><img src="img/s-home.jpg" alt="المتجر: الرئيسية" loading="lazy" width="490" height="1020"><img src="img/s-product.jpg" alt="المتجر: صفحة المنتج" loading="lazy" width="473" height="1020"><img src="img/s-track.jpg" alt="المتجر: تتبّع الطلب" loading="lazy" width="490" height="1020"></div>
   </div>
   <div class="wrap"><div class="stage rv" style="margin-top:26px"><img src="img/s-orders.jpg" alt="طلبات المتجر على الكاشير" loading="lazy" width="1400" height="793"><p class="cap2">طلبات المتجر على الكاشير: كل طلب في عموده، وزرار للخطوة الجاية.</p></div></div>
 </section>
@@ -335,8 +357,10 @@
     <div class="dls rv">
       <a class="dlc" href="https://github.com/khalid374374/repair-desk/releases/download/repair-desk/RepairDesk-Setup.exe"><i>🖥</i><b>البرنامج (الكاشير)</b><small>ويندوز 10 و 11</small><span>⬇ نزّل</span></a>
       <a class="dlc" href="https://github.com/khalid374374/repair-desk/releases/download/repair-desk/RepairDesk-Owner.apk"><i>📱</i><b>تطبيق صاحب المحل</b><small>أندرويد · بيتربط بالكاشير بـ QR</small><span>⬇ نزّل</span></a>
+      <a class="dlc" href="https://github.com/khalid374374/repair-desk/releases/download/repair-desk/RepairDesk-Courier.apk"><i>👷</i><b>تطبيق الموظف</b><small>أندرويد · الحضور والمندوب</small><span>⬇ نزّل</span></a>
       <a class="dlc" href="https://github.com/khalid374374/repair-desk/releases/download/repair-desk/RepairDesk-Watcher.apk"><i>📲</i><b>مراقب المحافظ</b><small>أندرويد · على تليفون فودافون كاش وانستاباي</small><span>⬇ نزّل</span></a>
     </div>
+    <div class="dls rv" style="margin-top:14px"><a class="dlc" href="https://khalid374374.github.io/repair-desk/app/" target="_blank" rel="noopener"><i>🍏</i><b>صاحب المحل على الآيفون</b><small>افتحه من Safari ← مشاركة ← "إضافة إلى الشاشة الرئيسية"</small><span>افتح</span></a><a class="dlc" href="https://khalid374374.github.io/repair-desk/staff/" target="_blank" rel="noopener"><i>🍏</i><b>الموظف على الآيفون</b><small>الحضور بزرار "وصلت" بالموقع</small><span>افتح</span></a></div>
     <p class="sub rv" style="font-size:13px">تطبيقات الأندرويد مش على Google Play: لما تفتح الملف الموبايل هيطلب "السماح بالتثبيت من المصدر ده" — وافق مرة واحدة.</p>
   </div>
 </section>
@@ -389,7 +413,7 @@
     <div class="steps">
       <div class="card rv" style="--d:0.00s"><div class="ic">⬇</div><h3>نزّل البرنامج</h3><p>على كمبيوتر المحل، واعمل حساب للمحل من أول شاشة.</p></div>
       <div class="card rv" style="--d:0.10s"><div class="ic">🛠</div><h3>ابدأ تسجّل</h3><p>أول جهاز يتسلم، أول فاتورة، وافتح الوردية برصيد الدرج والمحافظ.</p></div>
-      <div class="card rv" style="--d:0.20s"><div class="ic">📱</div><h3>اربط موبايلك</h3><p>امسح الـ QR من الإعدادات، والمحل كله في جيبك. ومراقب المحافظ على تليفون الكاش.</p></div>
+      <div class="card rv" style="--d:0.20s"><div class="ic">📱</div><h3>اربط موبايلك</h3><p>امسح الـ QR من الإعدادات، والمحل كله في جيبك. وموبايل كل موظف لحضوره، ومراقب المحافظ على تليفون الكاش.</p></div>
     </div>
   </div>
 </section>
@@ -402,13 +426,15 @@
       <div class="card rv" style="--d:0.00s"><div class="ic">💻</div><h3>ويندوز 10 أو 11</h3><p>أي كمبيوتر في المحل.</p></div>
       <div class="card rv" style="--d:0.08s"><div class="ic">🌐</div><h3>إنترنت</h3><p>للدخول والتحديثات والموبايل.</p></div>
       <div class="card rv" style="--d:0.16s"><div class="ic">🖨</div><h3>طابعة إيصالات</h3><p>اختياري: رول 80 أو 58 مم.</p></div>
-      <div class="card rv" style="--d:0.24s"><div class="ic">📱</div><h3>أندرويد</h3><p>اختياري: لتطبيق صاحب المحل ومراقب المحافظ.</p></div>
+      <div class="card rv" style="--d:0.24s"><div class="ic">📱</div><h3>أندرويد أو آيفون</h3><p>اختياري: لتطبيق صاحب المحل والموظفين (ومراقب المحافظ أندرويد بس).</p></div>
     </div>
     <div class="faq rv" style="max-width:760px;margin:34px auto 0">
       <details><summary>البيانات بتتحفظ فين؟</summary><p>على كمبيوتر المحل نفسه، ونسخة احتياطية لوحدها على الجهاز وعلى Google Drive لو حبيت. الموبايل بياخد ملخص الأرقام بس، من غير تليفونات العملاء. التفاصيل في <a href="privacy.html">سياسة الخصوصية</a>.</p></details>
       <details><summary>الموظف يقدر يلعب في الحسابات؟</summary><p>كل عملية متسجلة باسم اللي عملها في سجل محمي، والموظف مايقدرش يمسح ولا يقفل الوردية، والسحب أو المرتجع فوق الحد اللي تحدده بيستنى موافقتك. وجهاز الصيانة مايستلمش جهاز بنفسه: لازم يعدّي على الكاشير الأول.</p></details>
       <details><summary>عندي جهاز للصيانة وجهاز للكاشير؟</summary><p>بيتربطوا على شبكة المحل بكود، وكل جهاز بيشوف التعديلات اللي على التاني على طول.</p></details>
       <details><summary>الموبايل يشتغل لو الكاشير مقفول؟</summary><p>بيعرض آخر أرقام وصلته، والفاتورة أو الاستلام اللي تعمله من الموبايل بيستنى ويتسجل أول ما الكاشير يتفتح، لإن البيانات على كمبيوتر المحل.</p></details>
+      <details><summary>عندي أكتر من فرع؟</summary><p>كل فرع بحسابه والكاشير بتاعه، وبتربطهم من الإعدادات ← الفروع. موبايلك بيشوف كل فرع لوحده وكلهم مع بعض، وكل فرع بيشوف مخزن التاني، ومتجر واحد لكلهم.</p></details>
+      <details><summary>عندي آيفون؟</summary><p>افتح لينك التطبيق من Safari، ودوس مشاركة ← "إضافة إلى الشاشة الرئيسية"، وامسح كود الربط. القفل بـ Face ID أو PIN، والإشعارات محتاجة iOS 16.4 أو أحدث. مراقب المحافظ أندرويد بس.</p></details>
       <details><summary>البرنامج بيتحدّث إزاي؟</summary><p>لوحده: أول ما نسخة جديدة تنزل بيتحدّث وانت فاتحه.</p></details>
     </div>
   </div>
@@ -430,7 +456,7 @@
 <footer>الصيانة — برنامج محلات صيانة الموبايل · © 2026<br><a href="privacy.html">سياسة الخصوصية</a>·<a href="https://wa.me/201032620498" target="_blank" rel="noopener">واتساب</a></footer>
 
 <script>
-  const CAP = {"home": "الرئيسية: صافي النهاردة والشهر، \"النهارده\" بزرار لكل حاجة، والقايمة الجانبية بأرقام حيّة.", "board": "لوحة الصيانة: كل جهاز في عموده، بالسحب أو كلك يمين.", "repair": "في الصيانة: السعر والقطع والصافي ومن كام يوم، و\"مستني قطعة\".", "details": "بيانات الجهاز في مكان واحد: الفلوس فوق، المراحل، وتبويبات عليها ✓ أو !، واللي حصل للجهاز.", "archive": "الكل: كل يوم بعدده وصافيه، وعمود للعميل، وتعدّل جوه الجدول.", "items": "جهاز فيه كذا مشكلة: كل إصلاح بسعره وتمن قطعته.", "shift": "الوردية: المفروض في الدرج لحظة بلحظة، والتحويلات بعمولتها.", "drawer": "درج الصيانة: الدخل والقطع والمصاريف، والصافي بيتقسم مع الشريك.", "invoice": "فاتورة الإكسسوار بالأصناف والباركود.", "stock": "المخزن: قطع الغيار والإكسسوار وتنبيه النقص.", "reports": "التقارير: صافي الصيانة والإكسسوار بالشهر.", "s-orders": "طلبات المتجر الأونلاين: كل طلب في عموده وزرار للخطوة الجاية.", "cmdk": "Ctrl+K: دوّر على أي حاجة أو اكتب أمر.", "glass-dark": "نفس البرنامج بالوضع الغامق و Liquid Glass."};
+  const CAP = {"home": "الرئيسية: صافي النهاردة والشهر، \"النهارده\" بزرار لكل حاجة، والقايمة الجانبية بأرقام حيّة.", "board": "لوحة الصيانة: كل جهاز في عموده، بالسحب أو كلك يمين.", "repair": "في الصيانة: السعر والقطع والصافي ومن كام يوم، و\"مستني قطعة\".", "details": "بيانات الجهاز في مكان واحد: الفلوس فوق، المراحل، وتبويبات عليها ✓ أو !، واللي حصل للجهاز.", "archive": "الكل: كل يوم بعدده وصافيه، وعمود للعميل، وتعدّل جوه الجدول.", "items": "جهاز فيه كذا مشكلة: كل إصلاح بسعره وتمن قطعته.", "shift": "الوردية: المفروض في الدرج لحظة بلحظة، والتحويلات بعمولتها.", "drawer": "درج الصيانة: الدخل والقطع والمصاريف، والصافي بيتقسم مع الشريك.", "invoice": "فاتورة الإكسسوار بالأصناف والباركود.", "stock": "المخزن: قطع الغيار والإكسسوار وتنبيه النقص.", "reports": "التقارير: صافي الصيانة والإكسسوار بالشهر.", "s-orders": "طلبات المتجر الأونلاين: كل طلب في عموده وزرار للخطوة الجاية.", "cmdk": "Ctrl+K: دوّر على أي حاجة أو اكتب أمر.", "glass-dark": "نفس البرنامج بالوضع الغامق و Liquid Glass.", "att": "الحضور: مين وصل وإمتى ومنين (واي فاي المحل أو الموقع)، والمتأخر والغايب وطلبات الإجازة.", "payroll": "رواتب الموظفين: المرتب والحوافز والخصومات واللي اتصرف من الدرج، لكل موظف.", "branches": "مخزن الفروع: الصنف ده عندك كام، وفي كل فرع كام وبكام."};
   const still = matchMedia('(prefers-reduced-motion: reduce)').matches;
   const $ = id => document.getElementById(id);
 
